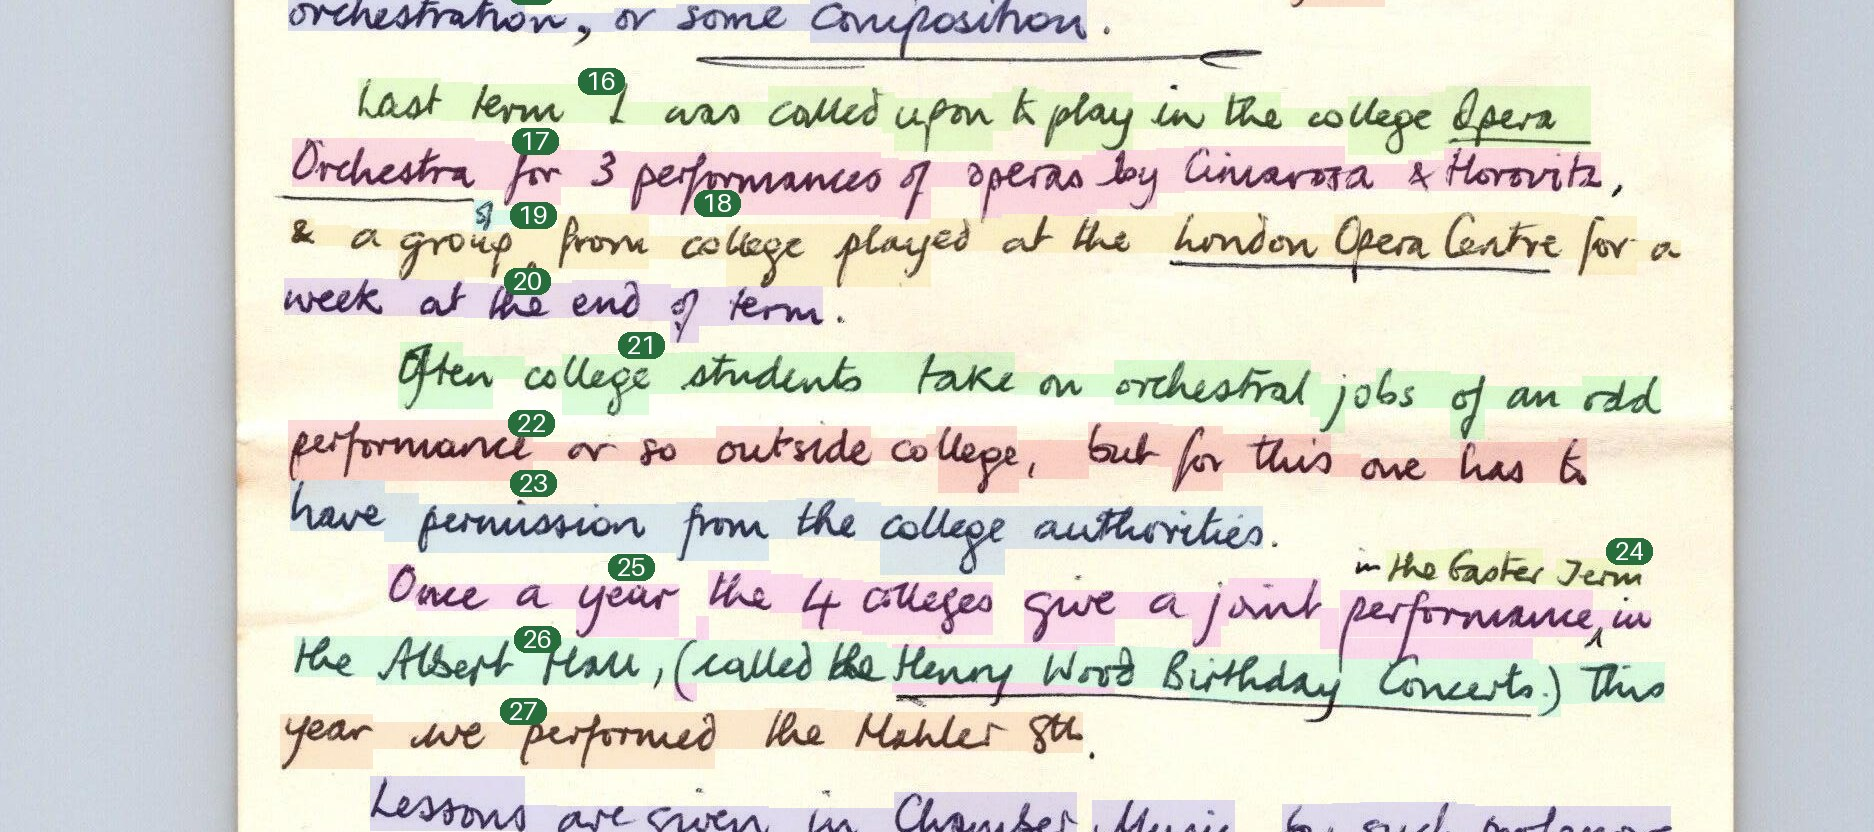
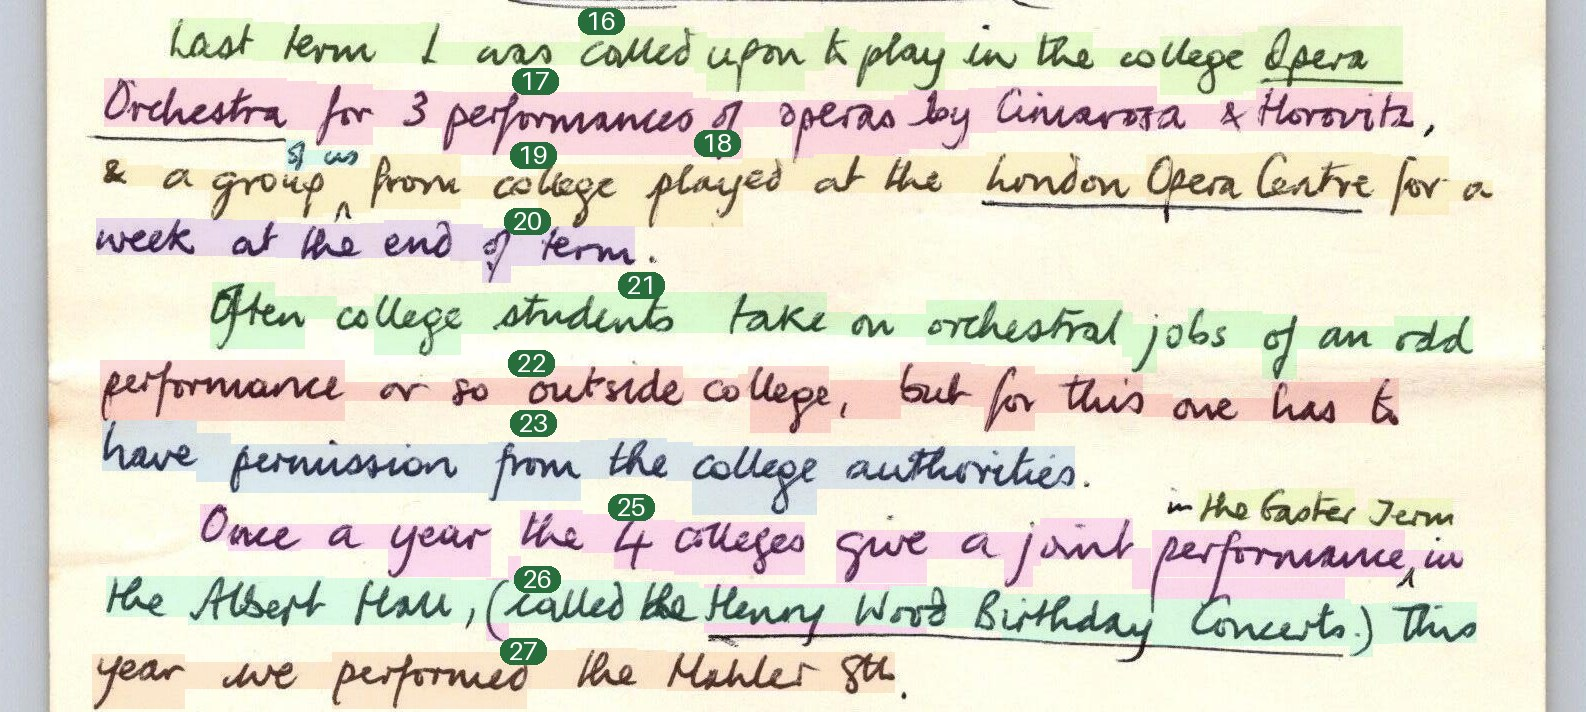
feat: exclusive bands, a manifest, and a line read twice is refused
Chasing the repetition the user saw — the same chunks coming back — turned up
three separate causes, each with evidence:

- the bands OVERLAPPED by 60px. Rows 15, 16 and 27 were therefore numbered in
  two images, and the model returned band 2's top lines as rows 17-20: the
  same text as 13-16. The cuts already fall in the gaps BETWEEN rows, so the
  overlap was protecting nothing and duplicating writing. Bands are exclusive
  now, and a row is numbered in exactly one.
- shorter bands (6) made it worse, not better: with six images the model lost
  track of the extents ("Wait, no, the first image's last row is 10?") and
  left 10 rows unread. Back to three, with a per-image manifest in the prompt
  ("image 1: rows 1-16; …"), which cut the misses from 10 to 4.
- and the contract now refuses a line returned twice: a whole line repeated
  across rows means one row was read twice (bands in a tight stack overlap in
  y, and that is exactly how page-01's tail repeated one line across 37, 39
  and 41). Short repeats — a dash, a word — stay ordinary writing.

What remains is a render-resolution problem in the nested stacks (rows 3, 6
and 7 still go unseen in the top band), and I have been iterating on images I
cannot see; the sheet is the check for that.

diff --git a/document/numbered_rows.py b/document/numbered_rows.py
@@ -29,9 +29,20 @@ PILL_INSET = 6  # px: how far the pill's right edge sits left of the band
 PILL_LIFT = 10  # px: how far its top sits above the band's top edge
 PILL_MIN_WIDTH = 30  # px: a one-digit pill is still a pill
 PILL_STEP = 6  # px: the gap between two pills that had to be stepped apart
-STRIPS = 3  # bands a tall page is cut into before the model reads it
-OVERLAP = 60  # px: how much neighbouring bands share, so no row is lost at a cut
-INK_MARGIN = 140  # px: air either side of the writing — the numbers sit in it
+# Bands are cut SHORT on purpose. The vision API downsamples an image by its
+# long edge, so a tall band returns the writing at less than half the page's
+# resolution — and rows whose bands overlap (page-01's tail stack, 38/39/40/41
+# within 20px) become one blur the model reads twice. A short band stays under
+# the API's pixel budget and arrives at the page's own resolution.
+STRIPS = 3
+# Neighbouring bands do NOT overlap. They did (60px), to be safe against a cut
+# through a row — but the cuts are placed in the gaps BETWEEN rows, so there is
+# nothing to be safe about, and the overlap made the model read the shared
+# writing twice: page-01's rows 15, 16 and 27 appeared in two bands, and the
+# model returned band 2's top lines as rows 17-20 — the same text as 13-16.
+BAND_OVERLAP = 0  # px: bands are exclusive; a row is numbered in exactly one
+INK_MARGIN = 40  # px: air either side of the writing — the numbers reach into it,
+# and `numbers_extent` widens this left edge when a stepped pill needs more
 
 
 class NumberedRows:
@@ -83,8 +94,8 @@ class NumberedRows:
         ink_left = max(0, int(min(float(ink_left), float(number_left))) - INK_MARGIN)
         out: list[NumberedRows] = []
         for index in range(strips):
-            band_top = int(bounds[index]) - (OVERLAP if index else 0)
-            band_bottom = int(bounds[index + 1]) + (OVERLAP if index + 1 < strips else 0)
+            band_top = int(bounds[index]) - (BAND_OVERLAP if index else 0)
+            band_bottom = int(bounds[index + 1]) + (BAND_OVERLAP if index + 1 < strips else 0)
             band_top, band_bottom = max(0, band_top), min(page.height, band_bottom)
             inside = [
                 row
@@ -96,6 +107,8 @@ class NumberedRows:
             # the writing's, plus the gutter the numbers sit in. Page-01's
             # writing is 57% of the page's width — sending the paper too costs
             # the model ~40% of the detail it could have had.
+            if not inside:
+                continue  # a band with no rows is an image of a margin
             crop = page.convert("RGB").crop((ink_left, band_top, ink_right, band_bottom))
             out.append(cls._draw(crop, inside, offset_y=band_top))
         return out
@@ -187,8 +200,13 @@ def _cut_gaps(rows: list[Row], *, strips: int, top: float, bottom: float) -> lis
     wanted = [top + (bottom - top) * index / strips for index in range(1, strips)]
     chosen: list[float] = []
     for target in wanted:
-        nearest = min(gaps, key=lambda gap: abs(gap[1] - target) + (0 if gap[0] >= 0 else 10_000))
-        chosen.append(nearest[1])
+        # one gap per cut: two cuts in the same gap make a band with no rows,
+        # which is an image of a margin and a wasted look (a 6-band page has
+        # fewer distinct gaps than that on its thin stretches)
+        free = [gap for gap in gaps if gap[1] not in chosen]
+        if not free:
+            break
+        chosen.append(min(free, key=lambda gap: abs(gap[1] - target) + (0 if gap[0] >= 0 else 10_000))[1])
     return sorted(chosen)
 
 

diff --git a/document/transcript.py b/document/transcript.py
@@ -75,7 +75,28 @@ class Transcript:
         missing = sorted(set(range(1, rows + 1)) - set(claimed))
         if missing:
             raise ReadingError(f"the answer leaves {len(missing)} row(s) unread: {missing[:20]}")
+        cls._refuse_repeats(readings)
         return cls(tuple(readings))
+
+    @staticmethod
+    def _refuse_repeats(readings: list[RowReading]) -> None:
+        """One line of writing read twice is a duplicated transcript.
+
+        Rows in a tight stack have bands that overlap, and a model shown them
+        can return the same writing under two numbers — page-01's rows 13-16
+        came back again as 17-20, word for word (a band overlap did it), and
+        its tail stack repeated one line across 37, 39 and 41. Two rows may
+        share a short word; a whole line twice means one row was read twice,
+        so the answer is refused rather than half-believed."""
+        long_enough = [reading for reading in readings if len(reading.text.split()) >= 4]
+        seen: dict[str, int] = {}
+        for index, reading in enumerate(long_enough):
+            key = " ".join(reading.text.lower().split())
+            if key in seen:
+                raise ReadingError(
+                    f"readings {seen[key]} and {index} return the same line twice: {reading.text[:60]!r}"
+                )
+            seen[key] = index
 
     def text_of(self, row: int) -> str:
         """What row `row` says — the readings that cover it, in order."""

diff --git a/tests/test_transcript.py b/tests/test_transcript.py
@@ -123,3 +123,26 @@ def test_the_rows_are_numbered_where_the_number_cannot_be_mistaken() -> None:
     assert changed > 50, "no chip was drawn"
     # nothing is painted over the rows' own writing
     assert all(numbered.image.getpixel((250, 55)) == (250, 250, 245) for _ in [0])
+
+
+def test_a_line_read_twice_is_refused() -> None:
+    """A tight stack's overlapping bands make a model return the same writing
+    under two numbers (page-01: rows 13-16 came back again as 17-20). Two rows
+    may share a short word; a whole line twice means one row was read twice."""
+    with pytest.raises(ReadingError, match="return the same line twice"):
+        Transcript.from_answer(
+            _answer(
+                {"rows": [1], "type": "body", "transcript": "the same line of writing here"},
+                {"rows": [2], "type": "body", "transcript": "The same line of writing here"},
+            ),
+            rows=2,
+        )
+    # short repeats are ordinary writing, not a double read
+    ok = Transcript.from_answer(
+        _answer(
+            {"rows": [1], "type": "body", "transcript": "—"},
+            {"rows": [2], "type": "body", "transcript": "—"},
+        ),
+        rows=2,
+    )
+    assert len(ok.readings) == 2

diff --git a/tools/eval_rows_transcript.py b/tools/eval_rows_transcript.py
@@ -155,9 +155,17 @@ def run(
     # the universe is the rows NUMBERED, each once: neighbouring bands overlap,
     # so a row can appear in two of them with its own single number
     drawn = len({number for strip in numbered for number in strip.numbers.values()})
+    # the manifest: which numbers each image carries. Without it the model
+    # guesses the extents ("Wait, no, the first image's last row is 10?"), and
+    # every guess it gets wrong costs rows.
+    manifest = "; ".join(
+        f"image {index + 1}: rows {min(strip.numbers.values())}-{max(strip.numbers.values())}"
+        for index, strip in enumerate(numbered)
+    )
     user_text = (
-        f"The {len(numbered)} images are bands of one page, top to bottom, with its rows numbered 1..{drawn}. "
-        "Return every row, once."
+        f"The {len(numbered)} images are bands of one page, top to bottom, and they carry rows numbered 1..{drawn} "
+        f"between them. What each image carries ({manifest}). Read every row it carries, once — the rows in one "
+        "image are separate rows of writing, however close together they sit."
     )
     started = time.monotonic()
     options = (
